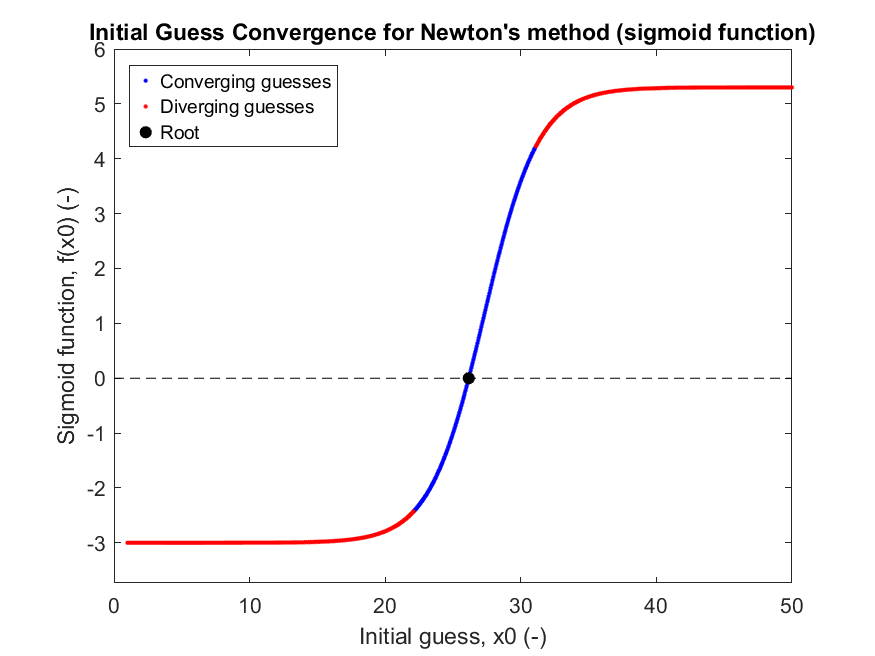
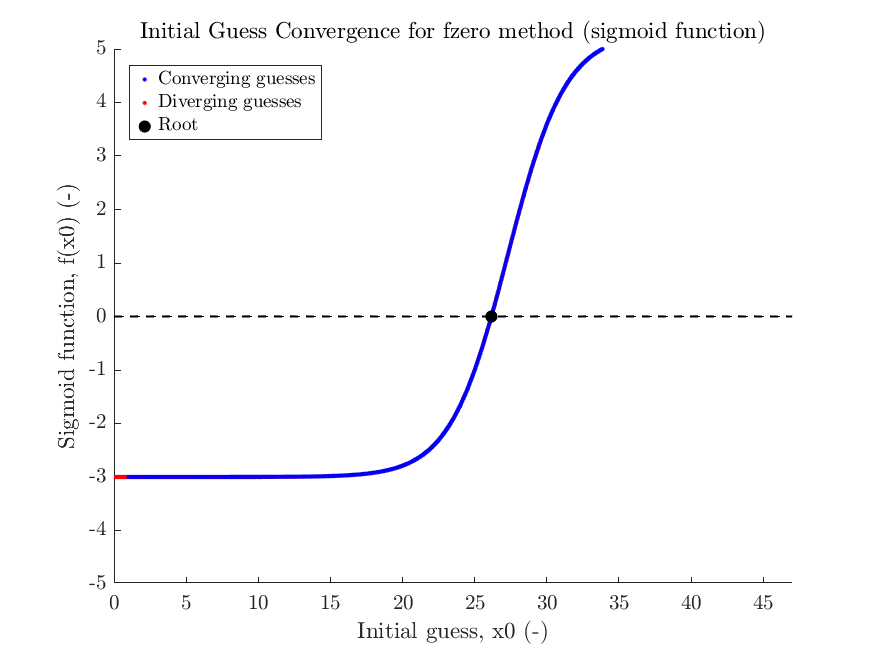
fixed all the plots lol

diff --git a/converge_sucess_test.m b/converge_sucess_test.m
@@ -1,85 +1,89 @@
 function converge_sucess_test()
+    set(groot, 'defaultTextInterpreter', 'latex');
+    set(groot, 'defaultAxesTickLabelInterpreter', 'latex');
+    set(groot, 'defaultLegendInterpreter', 'latex');
     close all
     xvals = linspace(-50,50,201);
     [yvals,~] = test_func03(xvals);
 
 
-    % hold on
+    hold on
  
-    % axis([-15,40,-50,80]);
-    % plot(xvals,yvals,'r','linewidth',2);
-    % plot(xvals,0*xvals,'k--','linewidth',1);
-    % xlabel('x'); ylabel('y'); title('Test Function 3');
-  
-    % 
-    % s=[];
-    % f=[];
-    % 
-    % newton_guess = linspace(1,50,1000);
-    % 
-    % for i = 1:length(newton_guess)
-    %     [x_root, ~] = newton_solver(@test_func03, newton_guess(i));
-    % 
-    %     if abs(x_root-26.1618)<0.0003
-    %         s=[s, newton_guess(i)];
-    %     else
-    %         f=[f,newton_guess(i)];
-    % 
-    %     end
-    % end   
-    % 
-    % [fs,~] = test_func03(s);
-    % [ff,~] = test_func03(f);
-    % 
-    % s = plot(s,fs, "b."); hold on
-    % f = plot(f,ff,"r.");
-    % root = plot(26.1618, 0, "k.", "MarkerSize", 20)
-    % line = plot(0:50, (0:50)*0, "k--")
-    % ylim([-3.75 6])
-    % xlabel("Initial guess, x0 (-)")
-    % ylabel("Sigmoid function, f(x0) (-)")
-    % legend([s, f, root], {"Converging guesses", "Diverging guesses", "Root"}, "Location", "northwest")
-    % title("Initial Guess Convergence for Newton's method (sigmoid function)")
-    % saveas(gcf, "newton_sigmoid.png")
-
-    fail = [];
-    faily = [];
-    success = [];
-    successy = [];
-    length(total_x_roots)
-
-
-    for i = 1:length(total_x_roots)
-        root = total_x_roots(i)
-        if root == 0
-            disp("wtf")
-            fail = [fail, root];
-            faily = [faily, i];
-        else
-            disp("help")
-            root
-            success(end+1) = root;
-            successy = [successy, i];
-        end
-    end
-    success
-    successy
-    fail;
-
     axis([-15,40,-50,80]);
-    % plot(fail,faily,'r','linewidth',2); hold on
-    plot(success,successy,'b*','linewidth',2); hold on
     plot(xvals,yvals,'r','linewidth',2);
     plot(xvals,0*xvals,'k--','linewidth',1);
-
     xlabel('x'); ylabel('y'); title('Test Function 3');
-    % loglog(en_list,en1_list,'r.', 'MarkerSize',5 ); hold on
-    % loglog(x_regression,y_regression,'b.', 'MarkerSize',5);
-    figure();
-    scatter(x,y, "r")
-    title("Bisection Method Error")
-    xlabel('x')
-    ylabel('x')
+  
+
+    s=[];
+    f=[];
+
+    newton_guess = linspace(1,50,1000);
+
+    for i = 1:length(newton_guess)
+        [x_root, ~] = input_recorder_example(@test_func03, newton_guess(i));
+
+        if abs(x_root-26.1618)<0.0003
+            s=[s, newton_guess(i)];
+        else
+            f=[f,newton_guess(i)];
+
+        end
+    end   
+
+    [fs,~] = test_func03(s);
+    [ff,~] = test_func03(f);
+
+    s = plot(s,fs, "b."); hold on
+    f = plot(26.1618,0,"r.");
+    root = plot(26.1618, 0, "k.", "MarkerSize", 20)
+    line = plot(0:50, (0:50)*0, "k--")
+    ylim([-3.75 6])
+    axis([0,47,-5,5])
+    xlabel("Initial guess, x0 (-)")
+    ylabel("Sigmoid function, f(x0) (-)")
+    legend([s, f, root], {"Converging guesses", "Diverging guesses", "Root"}, "Location", "northwest")
+    title("Initial Guess Convergence for fzero method (sigmoid function)")
+    saveas(gcf, "newton_sigmoid.png")
+
+    % fail = [];
+    % faily = [];
+    % success = [];
+    % successy = [];
+    % length(total_x_roots)
+    % 
+    % 
+    % for i = 1:length(total_x_roots)
+    %     root = total_x_roots(i)
+    %     if root == 0
+    %         disp("wtf")
+    %         fail = [fail, root];
+    %         faily = [faily, i];
+    %     else
+    %         disp("help")
+    %         root
+    %         success(end+1) = root;
+    %         successy = [successy, i];
+    %     end
+    % end
+    % success
+    % successy
+    % fail;
+    % 
+    % axis([-15,40,-50,80]);
+    % % plot(fail,faily,'r','linewidth',2); hold on
+    % plot(success,successy,'b*','linewidth',2); hold on
+    % plot(xvals,yvals,'r','linewidth',2);
+    % plot(xvals,0*xvals,'k--','linewidth',1);
+    % 
+    % xlabel('x'); ylabel('y'); title('Test Function 3');
+    % % loglog(en_list,en1_list,'r.', 'MarkerSize',5 ); hold on
+    % % loglog(x_regression,y_regression,'b.', 'MarkerSize',5);
+    % figure();
+    % scatter(x,y, "r")
+    % title("Bisection Method Error")
+    % xlabel('x')
+    % ylabel('x')
 
 end
 

diff --git a/basic_solver_with_tests_template.m b/basic_solver_with_tests_template.m
@@ -4,11 +4,11 @@ function basic_solver_with_tests_template()
     xvals = linspace(-50,50,201);
     [yvals,~] = test_func01(xvals);
 
-    newton_guess1 = linspace(1,3.5,1000);
+    newton_guess1 = linspace(0,30,1000);
     newton_guess2 = 0;
 
-    secant_guess1 = linspace(-2,-10,1000);
-    secant_guess2 = linspace(0.3,5,1000);
+    secant_guess1 = linspace(-100, 100, 1000);
+    secant_guess2 = linspace(-50, 50, 1000);
 
     bisection_guess1 =linspace(-7,-0.2,1000);
     bisection_guess2 =linspace(0.2,7,1000);
@@ -18,9 +18,10 @@ function basic_solver_with_tests_template()
 
     filter_list = [1e-15, 1e-2, 1e-14, 1e-2, 2];
 
+
     % TESTING BIG FUNCTION!!
     % 1->Bisection 2-> Newton 3->Secant 4->fzero
-    convergence_analysis(3, @test_func01, 0, secant_guess1, secant_guess2, filter_list)
+    convergence_analysis(4, @test_func01, 0, fzero_guess1, secant_guess2, filter_list)
 end
 
 %example for how to compute the fit line
@@ -55,6 +56,13 @@ function [fval,dfdx] = test_func01(x)
     dfdx = 3*(x.^2)/100 - 2*x/8 + 2 +(6/2)*cos(x/2+6) - exp(x/6)/6;
 end
 
+%Quadratic function with root at the minimum
+function [f_val,dfdx] = test_func02(x)
+    global input_list;
+    input_list(:,end+1) = x;
+    f_val = (x-37.879).^2;
+    dfdx = 2*(x-37.879);
+end
 
 function [x,x_list, x_listn] = bisection_solver(fun,x_left,x_right)
     x_mid=(x_left+x_right)/2;

diff --git a/converge_success_2guesses.m b/converge_success_2guesses.m
@@ -1,4 +1,7 @@
 function converge_success_2guesses()
+    set(groot, 'defaultTextInterpreter', 'latex');
+    set(groot, 'defaultAxesTickLabelInterpreter', 'latex');
+    set(groot, 'defaultLegendInterpreter', 'latex');
     clc;
     clear;
     close all;
@@ -7,7 +10,7 @@ function converge_success_2guesses()
     root = bisection_solver(@test_func03, 26, 27);
     
     % Values for x_left and x_right
-    x = linspace(0, 50, 1000);
+    x = linspace(0, 50, 100);
     
     % Create grid of all possible endpoint combinations
     [x_left, x_right] = meshgrid(x, x);
@@ -34,10 +37,10 @@ function converge_success_2guesses()
     hold on;
     
     % Plot failed points in red
-    scatter(fleft, fright, 8, 'r', 'filled');
+    scatter(fleft, fright, 8, 'ro', 'filled');
     
     % Plot successful points in blue
-    scatter(sleft, sright, 8, 'b', 'filled');
+    scatter(sleft, sright, 8, 'bo', 'filled');
     
     % Plot root boundaries
     xline(root, 'k--', 'LineWidth', 1.5);
@@ -61,7 +64,7 @@ function converge_success_2guesses()
     % Legend
     legend('Failed', 'Success', 'Root', 'Location', 'northeast');
     
-    saveas(gcf, "bisection_sigmoid.png")
+    saveas(gcf, "secant_sigmoid.png")
 end
 
 function [f_val,dfdx] = test_func03(x)

diff --git a/plot_error.m b/plot_error.m
@@ -1,4 +1,7 @@
 function plot_error(en_list, en1_list, x_regression, y_regression, method)
+    set(groot, 'defaultTextInterpreter', 'latex');
+    set(groot, 'defaultAxesTickLabelInterpreter', 'latex');
+    set(groot, 'defaultLegendInterpreter', 'latex');
     loglog(en_list,en1_list,'r.', 'MarkerSize',5 ); hold on
     loglog(x_regression,y_regression,'b.', 'MarkerSize',5);
 
@@ -6,10 +9,15 @@ function plot_error(en_list, en1_list, x_regression, y_regression, method)
     fit_line_x = 10.^[-16:.01:1];
     fit_line_y = k*fit_line_x.^p;
     loglog(fit_line_x,fit_line_y,'k-','linewidth',1)
-
-    title(method, " Method Error")
-    xlabel('\epsilon_{n}')
-    ylabel('\epsilon_{n+1}')
+    
+    plot_name = "Error convergence of " + method + " method with fit"
+    title(plot_name)
+    xlabel('Error at current iteration (-)')
+    ylabel('Error at next iteration (-)')
     legend("Raw Data", "Filtered Data", "Line of Best Fit", "Location", "northwest")
-    axis([10e-20,10e0,10e-20,10e0])
+    axis([10e-17,10e0,10e-17,10e0])
+    gca.FontSize = 15;
+    
+    filename = method + "error.png";
+    saveas(gcf, filename);
 end

diff --git a/collision_func.m b/collision_func.m
@@ -25,6 +25,5 @@ function [t_ground,t_wall] = collision_func(traj_fun, egg_params, y_ground, x_wa
 
      
        t=t+0.1;
-    end 
-end
+end 
 
